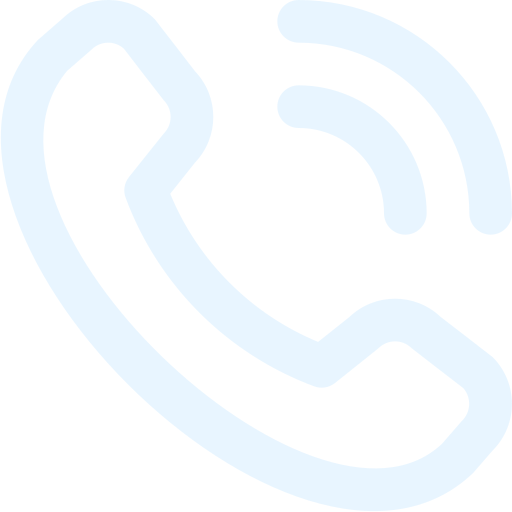
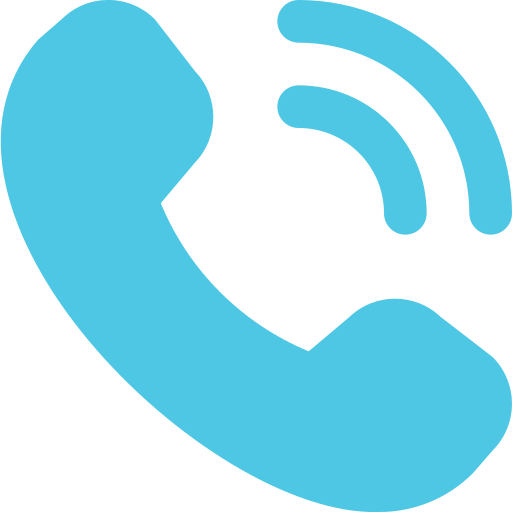
modification icone et menu nav responsive

diff --git a/wwwroot/css/Site.css b/wwwroot/css/Site.css
@@ -11,13 +11,9 @@
 
 header {
     background-color: #F4F4F4;
-    height:75px;
+    height:76px;
     margin : 0;
     padding:0;
-}
-
-#logo {
-margin-top:4px;
 }
 
 #center {
@@ -33,11 +29,12 @@ margin-top:4px;
     text-decoration: none;
     background-color: transparent;
     color: #323A7C;
-    font-size:13px;
+    
 }
 
 .nav-link {
     margin-right: 1em !important;
+    font-size: 1.4em;
 }
 
 .nav-link:hover {
@@ -55,14 +52,13 @@ margin-top:4px;
 }
 
 .header-pic svg {
-        width: 15px;
-    }
+    width: 15px;
+}
 
 .profil-image {
     width: 65px;
     height: 65px;
     border-radius: 50%;
-    margin-top: 4px;
     background-image: url("/Image/profil.png");
     background-size: cover;
     background-position: center;
@@ -91,7 +87,7 @@ width:100%;
 .text {
     margin-top: 10px;
     color: #4DC7E4;
-    font-size: 12px;
+    font-size: 0.9em;
 }
 
 
@@ -118,7 +114,7 @@ text-align : center;
 }
 
 li, .base {
-    font-size: 10px;
+    font-size: 0.8em;
 }
 
 .list-style {

diff --git a/Controllers/AnnonceController.cs b/Controllers/AnnonceController.cs
@@ -22,17 +22,10 @@ namespace coproBox.Controllers
         }
 
         public IActionResult CreerAnnonce()
-<<<<<<< HEAD
         {
             return View();
         }
 
-        public IActionResult AfficherAnnonce()
-=======
->>>>>>> c1c4285 (changement vue creerAnnonce)
-        {
-            return View();
-        }
 
         [HttpPost]
         public ActionResult Creer(Annonce annonce)

diff --git a/Models/Annonce.cs b/Models/Annonce.cs
@@ -18,7 +18,7 @@ namespace coproBox.Models
 
         public TypeService TypeService { get; set;}
 
-        public IFormFile Image { get; set; }
+       // public IFormFile Image { get; set; }
 
     }
 }
